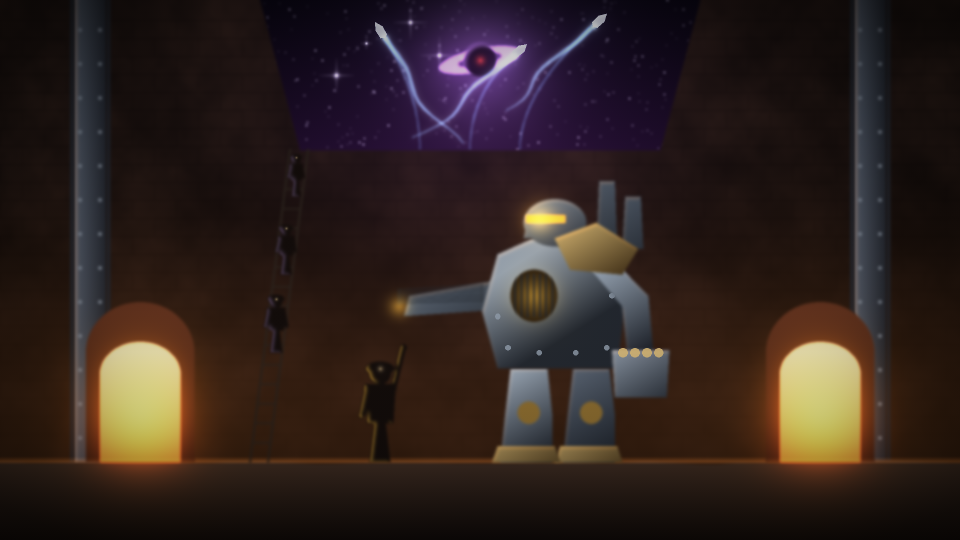
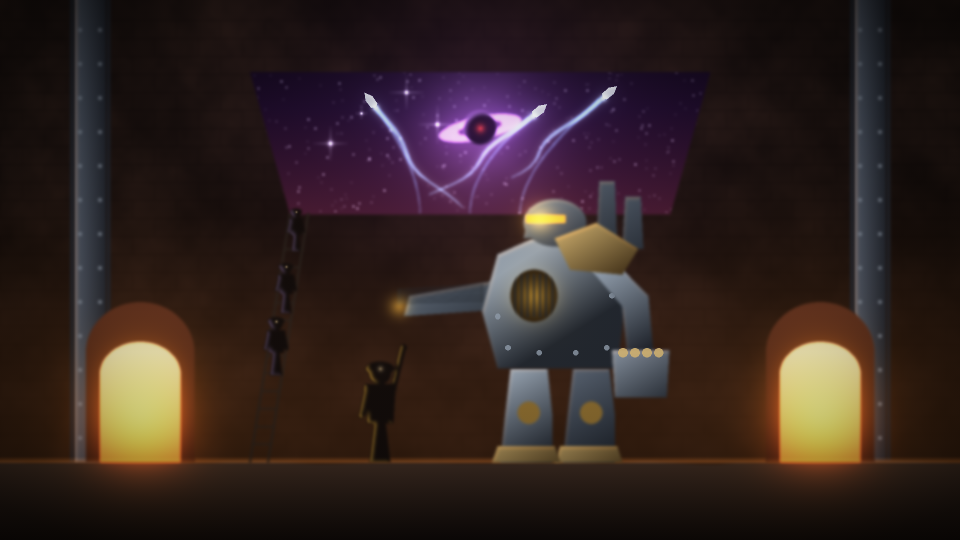
WIP 2.58 : jamais deux motifs de presses à la fois, cuves de braises, captures sans histoire, tableau 3 recadré
Claude-Session: https://claude.ai/code/session_01QqM7amBZEc2xH65DxoKFa4

diff --git a/tools/assetgen/environment/story_titan.py b/tools/assetgen/environment/story_titan.py
@@ -295,14 +295,14 @@ def shot2():
 
 def _sky_star(c):
     # the evening sky through the great open hatch of the roof: the star of the centre collapses
-    hatch = Mask().poly([(260, 0), (700, 0), (660, 150), (300, 150)]).get(0.8)
+    hatch = Mask().poly([(250, 72), (710, 72), (670, 214), (290, 214)]).get(0.8)
     sky = Canvas()
-    sky.vgradient([(0.0, "#05040e"), (0.3, "#1a0a26"), (0.6, "#3a1428"), (1.0, "#0a0408")])
-    sky.stars(5821, 300, "#e8e0ff", 0.8, region=(260, 0, 700, 150))
-    collapsed_star(sky, 480, 60, 16)
-    sky.rays(480, 60, 10, 160, 14, "#c88bff", 0.08, 5823, soft=8)
-    for i, (x0, y0, x1, y1) in enumerate(((420, 150, 380, 30), (520, 150, 600, 20), (470, 150, 520, 50))):
-        path = bezier((x0, y0), (x0, y0 - 60), (x1, y1), None, 20)
+    sky.vgradient([(0.0, "#05040e"), (0.2, "#1a0a26"), (0.4, "#3a1428"), (1.0, "#0a0408")])
+    sky.stars(5821, 300, "#e8e0ff", 0.8, region=(250, 72, 710, 214))
+    collapsed_star(sky, 480, 128, 16)
+    sky.rays(480, 128, 10, 140, 14, "#c88bff", 0.08, 5823, soft=8)
+    for i, (x0, y0, x1, y1) in enumerate(((420, 214, 370, 100), (520, 214, 610, 92), (470, 214, 540, 110))):
+        path = bezier((x0, y0), (x0, y0 - 50), (x1, y1), None, 20)
         tm = Mask().poly(tapered(path, 0.5, 2.4)).get(1.4)
         sky.add("#7ab8ff", tm, 0.45)
         a = math.atan2(path[-1][1] - path[-3][1], path[-1][0] - path[-3][0])
@@ -323,13 +323,13 @@ def shot3():
     worker(c, 380, 462, 2.6, "wave", light=AMBER, k=0.8)
     lad = Mask()
     for lx in (250, 268):
-        lad.line([(lx, 462), (lx + 40, 150)], 2.0)
-    for i in range(1, 16):
-        t = i / 16
-        lad.line([(250 + 40 * t, 462 - 312 * t), (268 + 40 * t, 462 - 312 * t)], 1.4)
+        lad.line([(lx, 462), (lx + 40, 214)], 2.0)
+    for i in range(1, 14):
+        t = i / 14
+        lad.line([(250 + 40 * t, 462 - 248 * t), (268 + 40 * t, 462 - 248 * t)], 1.4)
     c.over("#2a221c", lad.get(0.5), 0.95)
     for (t, s) in ((0.35, 1.5), (0.6, 1.3), (0.85, 1.1)):
-        worker(c, 262 + 40 * t, 462 - 312 * t, s, "stand", light="#c8a8ff", k=0.5)
+        worker(c, 262 + 40 * t, 462 - 248 * t, s, "stand", light="#c8a8ff", k=0.5)
     return finish(c, bloom=0.45, threshold=0.7, vignette=0.55)
 
 

diff --git a/ui/screens/GameScene.cpp b/ui/screens/GameScene.cpp
@@ -782,7 +782,8 @@ void GameScene::checkBossStory() {
     ctx.editorTest = opt_.editorTest;
     // Automated runs (scripted input, screenshots that force a boss's attack or phase, or open
     // the pause menu) are never held by a story.
-    ctx.scripted = script_.active() || opt_.forceBossPhase > 0 || !opt_.forceBossAttack.empty() || opt_.openPause || opt_.pauseAfter > 0.0f;
+    ctx.scripted = script_.active() || opt_.forceBossPhase > 0 || forcedPhase_ || !opt_.forceBossAttack.empty() || opt_.openPause ||
+                   opt_.pauseAfter > 0.0f;
     if (!storyDue(b->def(), g_.stories, g_.bossStats, g_.settings.gameplay.bossStories, ctx)) return;
     // Seen from now on (a story skipped counts), kept at once.
     storyBoss_ = b->def().id;
@@ -1126,6 +1127,7 @@ void GameScene::update(float dt) {
                                                                  b->state() == EnemyState::Idle || b->state() == EnemyState::Patrol ||
                                                                  b->state() == EnemyState::Recover))  // 2.57: its rest cut short
             b->forceAttack(*world_, opt_.forceBossAttack);
+    if (opt_.forceBossPhase > 0) forcedPhase_ = true;  // reached later, it stays a capture (no story)
     if (opt_.forceBossPhase > 0)
         if (Enemy* b = world_->activeBoss(); b && b->alive() && !b->dormant()) {
             // A capture never counts (boss statistics, achievements, records), as a training.

diff --git a/game/enemies/BossHazards.cpp b/game/enemies/BossHazards.cpp
@@ -1151,7 +1151,7 @@ void BossHazards::renderTitan(RenderContext& ctx) const {
             for (float x = x0 + 4.0f; x < x0 + w - 4.0f; x += 10.0f)
                 ctx.r.fillWorldRect({x, y - 5.0f, std::min(5.0f, x0 + w - 4.0f - x), 5.0f}, Color{255, 200, 40, a});
             const float k = std::clamp(pr.age / std::max(0.05f, pr.warn), 0.0f, 1.0f);
-            ctx.r.fillWorldRect({x0 + 4.0f, pr.top, w - 8.0f, y - pr.top}, Color{255, 120, 40, static_cast<uint8_t>(6 + 16 * k)}, BlendMode::Additive);
+            ctx.r.fillWorldRect({x0 + 4.0f, pr.top, w - 8.0f, y - pr.top}, Color{255, 120, 40, static_cast<uint8_t>(10 + 24 * k)}, BlendMode::Additive);
             ctx.r.drawWorldGlow({pr.x, y - 4.0f}, pr.half * 0.6f, pr.color.withAlpha(static_cast<uint8_t>(40 + 80 * k)));
         }
         // The rod (chrome) and the head (dark steel, a band of stripes, bolts).

diff --git a/tools/levelgen/confins.py b/tools/levelgen/confins.py
@@ -470,7 +470,7 @@ def drowned_foundry():
     # A walker: the crust gives way on the two sides only (the Titan fights in the middle, under its
     # presses, on its belts).
     b.giga_arena("titan", "music/titan_boss.ogg", pits=[(4, 16), (80, 92)], flying=False, texts=TITAN_TEXTS,
-                 lights=TITAN_LIGHTS, flicker=0.1, ledges=TITAN_LEDGES, orbit=False, orbs=TITAN_ORBS,
+                 style="embers", lights=TITAN_LIGHTS, flicker=0.1, ledges=TITAN_LEDGES, orbit=False, orbs=TITAN_ORBS,
                  presses=TITAN_PRESSES, belts=TITAN_BELTS, valves=TITAN_VALVES)
     width = b.finish("Le Titan s'est arrêté. Dans la fonderie, les feux s'éteignent enfin.")
     ref = 360  # about six minutes of fight

diff --git a/tests/test_titan.cpp b/tests/test_titan.cpp
@@ -804,6 +804,8 @@ TEST_CASE("titan: in its foundry it fights, walks on its floor, never falls, use
                     if (const AttackDef* a = chosen(*b)) {
                         used.insert(a->type);
                         names.insert(a->name);
+                        // Never two patterns of presses at once (a column spared stays spared).
+                        if (a->type == AttackType::Press) CHECK(m.w->hazards().pressCount(b->uid()) == 0);
                     }
                 last = b->state();
                 if (b->stalled()) break;

diff --git a/game/enemies/TitanAttacks.cpp b/game/enemies/TitanAttacks.cpp
@@ -135,7 +135,7 @@ float Enemy::titanFit(const GameWorld& w, const AttackDef& a, bool near, bool fa
     const BossHazards& hz = w.hazards();
     switch (a.type) {
         case AttackType::Press:
-            if (hz.pressCount(uid_) > 0) return 0.1f;
+            if (hz.pressCount(uid_) > 0) return 0.0f;  // never two patterns at once: a column spared stays spared
             return (near ? 0.8f : 1.3f) * (sheltered_ ? 0.6f : 1.0f);
         case AttackType::Missile:
             if (hz.missileCount(uid_) > 0) return 0.2f;

diff --git a/ui/screens/GameScene.h b/ui/screens/GameScene.h
@@ -160,6 +160,7 @@ private:
     // is due or being told; `storyOpen_`: its scene was opened (cleared when it closes).
     void checkBossStory();
     std::string storyBoss_;
+    bool forcedPhase_ = false;  // 2.58: a capture that forced a boss phase (still one once the phase is reached)
     bool storyOpen_ = false;
     /// A boss out of view: a textured arrow on the screen's border, turned towards it.
     void drawBossArrow(const WorldView& view);
